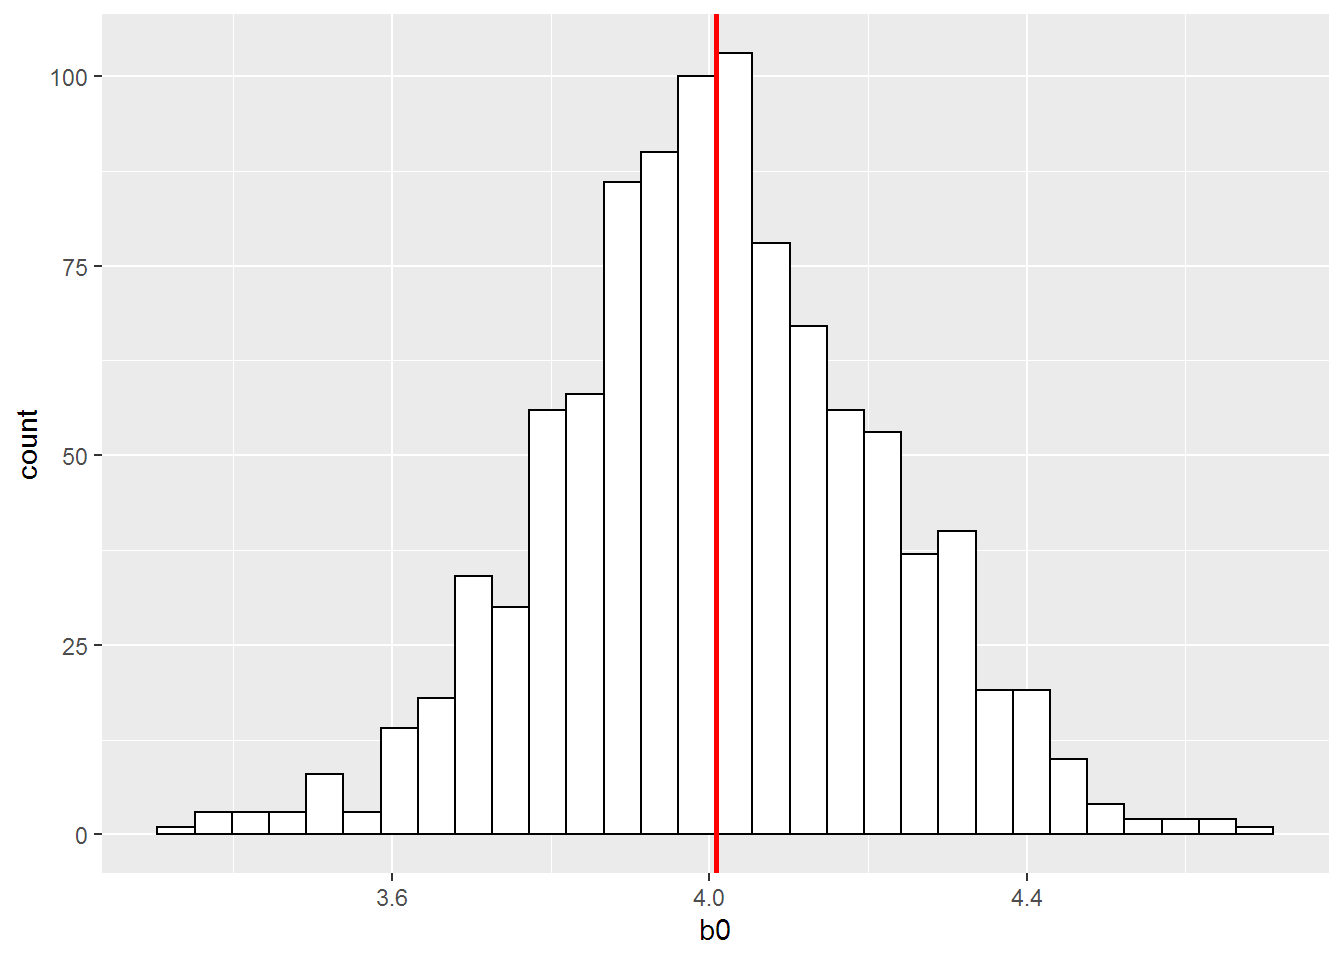
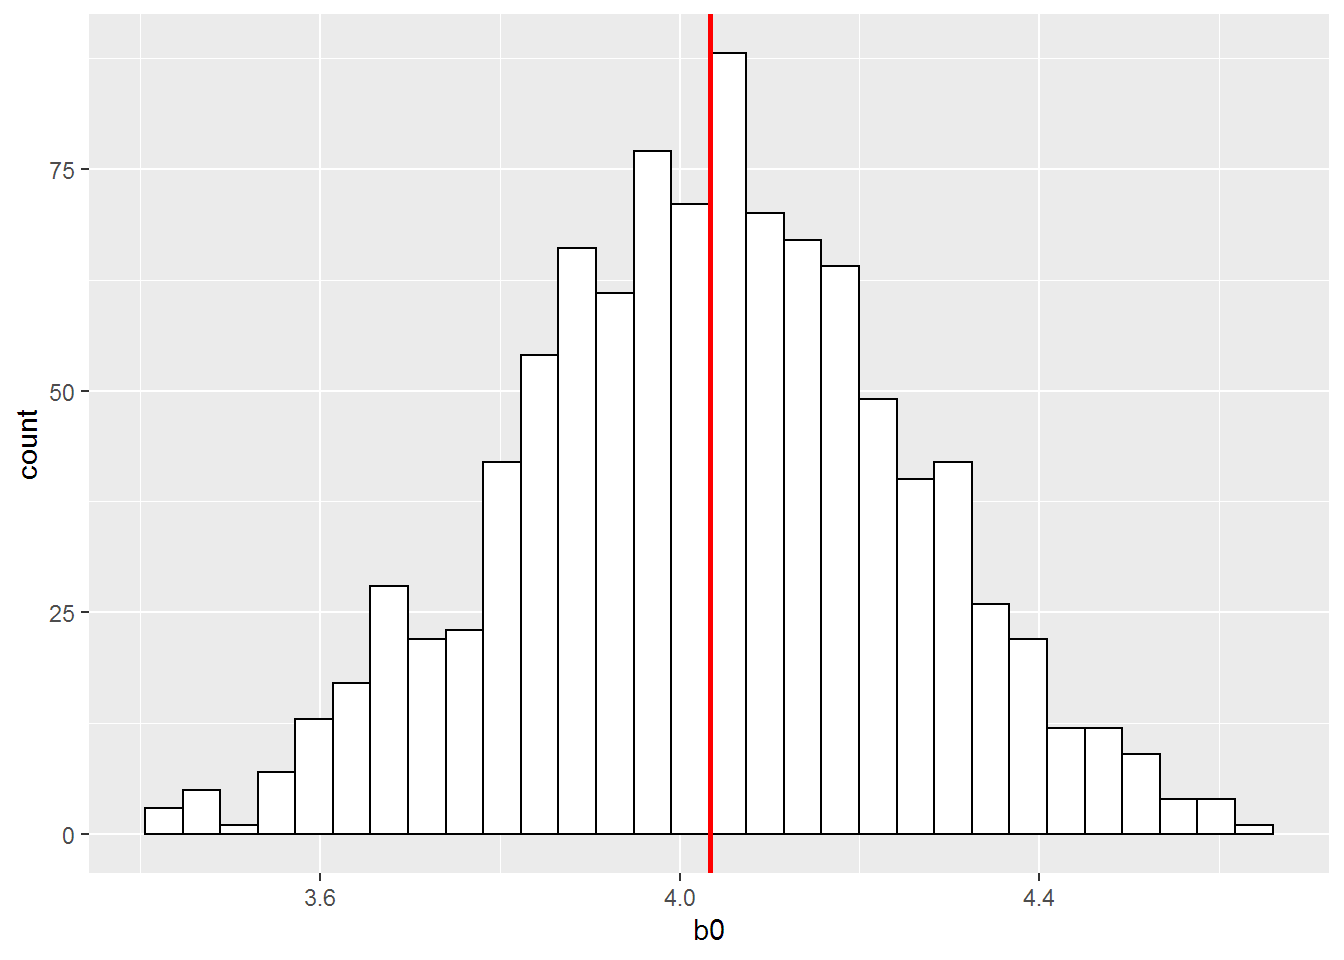
minor typo font

diff --git a/content/post/2019-07-01-metodos-de-resampleo.html b/content/post/2019-07-01-metodos-de-resampleo.html
@@ -19,8 +19,8 @@ thumbnailImagePosition: left
 
 
 <p>Los métodos de resampleo son indispensables en la estadística moderna ya que permiten ajustar modelos a diferentes muestras de un mismo set de entrenamiento con el fin de obtener mayor información del modelo. Por ejemplo puede ser de utilidad para ver la variabilidad del modelo en distintas muestras. Los dos métodos que se presentan en el capítulo son <em>cross-validation</em> y <em>bootstrap</em>. A grandes rasgos CV puede servir para estimar el test error de un modelo o para ajustar hiperparámetros del modelo como el nivel de flexbilidad. Por su parte bootstrap puede usarse para medir la precisión de un parámetro estimado mediante un modelo estadístico.</p>
-<div id="cross-validation" class="section level3">
-<h3>Cross-Validation</h3>
+<div id="cross-validation" class="section level2">
+<h2>Cross-Validation</h2>
 <p>De los modelos que uno entrena es de sumo interés obtener el “test error” que sería el error promedio al predecir una nueva observación aplicando el modelo estadístico entrenado. Esto puede calcularse si tenemos un set de testeo puntualmente para ello pero no suele ser el caso lamentablemente. En general no se tienen tantos datos como para separar en sets como uno desearía y surgen distintas técnicas para estimar el test error basado solamente en los datos de entrenamiento. Algunas de estas técnicas estiman el test error ajustando el training error por algún factor mientras que otras separan el training set en subsets donde uno hace las veces de test set.</p>
 <div id="validation-set" class="section level4">
 <h4>Validation Set</h4>
@@ -49,8 +49,8 @@ Al parecer en los últimos años se empezó a dudar de la universalidad de este 
 <p>Los procedimientos vistos hasta ahora son útiles tanto para variables continuas como para problemas de clasificación. Vinimos usando ejemplos donde la medida del error era el MSE (variable dependiente continua) pero podemos aplicar todo de la misma manera utilizando alguna medida de clasificación como la cantidad de observaciones mal clasificadas. Todo el resto se mantiene y es válido, tanto sete de validación, como LOOCV o K-Fold.</p>
 </div>
 </div>
-<div id="bootstrap" class="section level3">
-<h3>Bootstrap</h3>
+<div id="bootstrap" class="section level2">
+<h2>Bootstrap</h2>
 <p>El <em>bootstrap</em> es una herramienta estadística muy extendida que se utiliza para cuantificar la incertidumbre asociada a algún estimador o método de aprendizaje estadístico. Un ejemplo sencilla sería que se puede usar para estimar los errores estándar de los coeficientes de una regresión lineal. Sin embargo lo poderoso de esta herramienta es que es utilizable en muchísimos métodos de aprendizaje, incluso en algunos donde es difícil estimar la varianza o esta no es calculado por los paquetes estadísticos.<br />
 Idealmente para estimar la variabilidad de un estimador lo que uno haría es ajustar un modelo n veces y ver cómo varía el estimador a lo largo de esos n modelos utilizando n muestras. Sin embargo no es habitual tener tantos datos ni muestras disponibles. Mismo uno querría utilizar todos los datos en simultáneo posiblemente para reducir el sesgo. Acá es donde bootstrap se luce ya que permite emular el proceso de obtener nuevas muestras de datos a partir de nuestros datos de entrenamiento. <strong>En vez de muestrear de manera independiente sobre la población lo que se hace es muestrear n veces con reposición de nuestro set de entrenamiento, generado n muestras a partir de nuestros datos originales</strong>. Ya con nuestras nuevas muestras (provenientes todas del dataset original) podemos calcular n modelos y por ende n veces el mismo estimador, pudiendo estimar el desvío estándar de este.<br />
 En el fondo lo que se hace es suponer que nuestra muestra es <em>representativa</em> de la población y es nuestra mejor aproximación. Luego obtenemos muestras de estos datos que son nuestra versión reducida de la población. Posiblemente haya algún sesgo pero es una herramienta bastante útil para estimar la variabilidad de nuestros estimadores.</p>
@@ -78,14 +78,14 @@ for (i in 1:1000){
 
 summary(results_pop)</code></pre>
 <pre><code>##        b0              b1       
-##  Min.   :3.337   Min.   :4.788  
-##  1st Qu.:3.875   1st Qu.:4.961  
-##  Median :4.005   Median :4.999  
-##  Mean   :4.009   Mean   :4.998  
-##  3rd Qu.:4.142   3rd Qu.:5.036  
-##  Max.   :4.696   Max.   :5.161</code></pre>
+##  Min.   :3.421   Min.   :4.799  
+##  1st Qu.:3.890   1st Qu.:4.942  
+##  Median :4.038   Median :4.982  
+##  Mean   :4.034   Mean   :4.984  
+##  3rd Qu.:4.177   3rd Qu.:5.025  
+##  Max.   :4.633   Max.   :5.176</code></pre>
 <pre class="r"><code>print(paste0(&quot;El desvío estándar de b0 a partir de 1000 modelos es &quot;, sd(x = results_pop$b0)))</code></pre>
-<pre><code>## [1] &quot;El desvío estándar de b0 a partir de 1000 modelos es 0.209149528656483&quot;</code></pre>
+<pre><code>## [1] &quot;El desvío estándar de b0 a partir de 1000 modelos es 0.217782102801907&quot;</code></pre>
 <pre class="r"><code>ggplot(data = results_pop) + 
   geom_histogram( aes( x = b0), fill = &quot;white&quot;, colour = &quot;black&quot;)  + 
   geom_vline( aes(xintercept = mean(b0)), colour = &quot;red&quot;, size = 1)</code></pre>
@@ -112,8 +112,8 @@ knitr::kable(results_sample, caption = &quot;Coefficients&quot;)</code></pre>
 </thead>
 <tbody>
 <tr class="odd">
-<td align="right">3.445822</td>
-<td align="right">5.061398</td>
+<td align="right">3.93326</td>
+<td align="right">4.950651</td>
 </tr>
 </tbody>
 </table>
@@ -134,14 +134,14 @@ for (i in 1:10000){
 
 summary(results_bootstrap)</code></pre>
 <pre><code>##        b0              b1       
-##  Min.   :2.983   Min.   :4.712  
-##  1st Qu.:3.751   1st Qu.:4.942  
-##  Median :3.903   Median :4.989  
-##  Mean   :3.902   Mean   :4.989  
-##  3rd Qu.:4.054   3rd Qu.:5.036  
-##  Max.   :4.709   Max.   :5.232</code></pre>
+##  Min.   :3.173   Min.   :4.751  
+##  1st Qu.:3.865   1st Qu.:4.907  
+##  Median :4.013   Median :4.945  
+##  Mean   :4.013   Mean   :4.945  
+##  3rd Qu.:4.159   3rd Qu.:4.985  
+##  Max.   :4.827   Max.   :5.179</code></pre>
 <pre class="r"><code>print(paste0(&quot;El desvío estándar de b0 a partir de 10000 modelos es &quot;, sd(x = results_bootstrap$b0)))</code></pre>
-<pre><code>## [1] &quot;El desvío estándar de b0 a partir de 10000 modelos es 0.22413085708339&quot;</code></pre>
+<pre><code>## [1] &quot;El desvío estándar de b0 a partir de 10000 modelos es 0.218799909021541&quot;</code></pre>
 <pre class="r"><code>ggplot(data = results_bootstrap) + 
   geom_histogram( aes( x = b0),fill = &quot;white&quot;, colour = &quot;black&quot;) + 
   geom_vline( aes(xintercept = mean(b0)), colour = &quot;blue&quot;, size = 1)</code></pre>
@@ -153,18 +153,18 @@ summary(results_bootstrap)</code></pre>
 ## lm(formula = y ~ x, data = df_train_sample)
 ## 
 ## Residuals:
-##      Min       1Q   Median       3Q      Max 
-## -12.3804  -2.7041   0.0082   2.6758  11.3385 
+##     Min      1Q  Median      3Q     Max 
+## -14.543  -2.652  -0.184   2.494  12.069 
 ## 
 ## Coefficients:
 ##             Estimate Std. Error t value Pr(&gt;|t|)    
-## (Intercept)  3.44582    0.22020   15.65   &lt;2e-16 ***
-## x            5.06140    0.06334   79.90   &lt;2e-16 ***
+## (Intercept)  3.93326    0.22066   17.82   &lt;2e-16 ***
+## x            4.95065    0.06024   82.18   &lt;2e-16 ***
 ## ---
 ## Signif. codes:  0 &#39;***&#39; 0.001 &#39;**&#39; 0.01 &#39;*&#39; 0.05 &#39;.&#39; 0.1 &#39; &#39; 1
 ## 
-## Residual standard error: 4.154 on 498 degrees of freedom
-## Multiple R-squared:  0.9276, Adjusted R-squared:  0.9275 
-## F-statistic:  6385 on 1 and 498 DF,  p-value: &lt; 2.2e-16</code></pre>
+## Residual standard error: 3.916 on 498 degrees of freedom
+## Multiple R-squared:  0.9313, Adjusted R-squared:  0.9312 
+## F-statistic:  6753 on 1 and 498 DF,  p-value: &lt; 2.2e-16</code></pre>
 <p>Vemos que desde R el modelo nos devuelve que b0 tiene un desvío de 0.20975. Prácticamente igual al desvío de las muestras independientes como al de bootstrap. Por otra parte vemos que el promedio de b0 estimado en bootstrap es mucho más cercano a 4 que el estimado con una sola iteración y quedó mucho más cerca que el promedio de los estimados mediante muestras independientes. Nada mal no?</p>
 </div>
